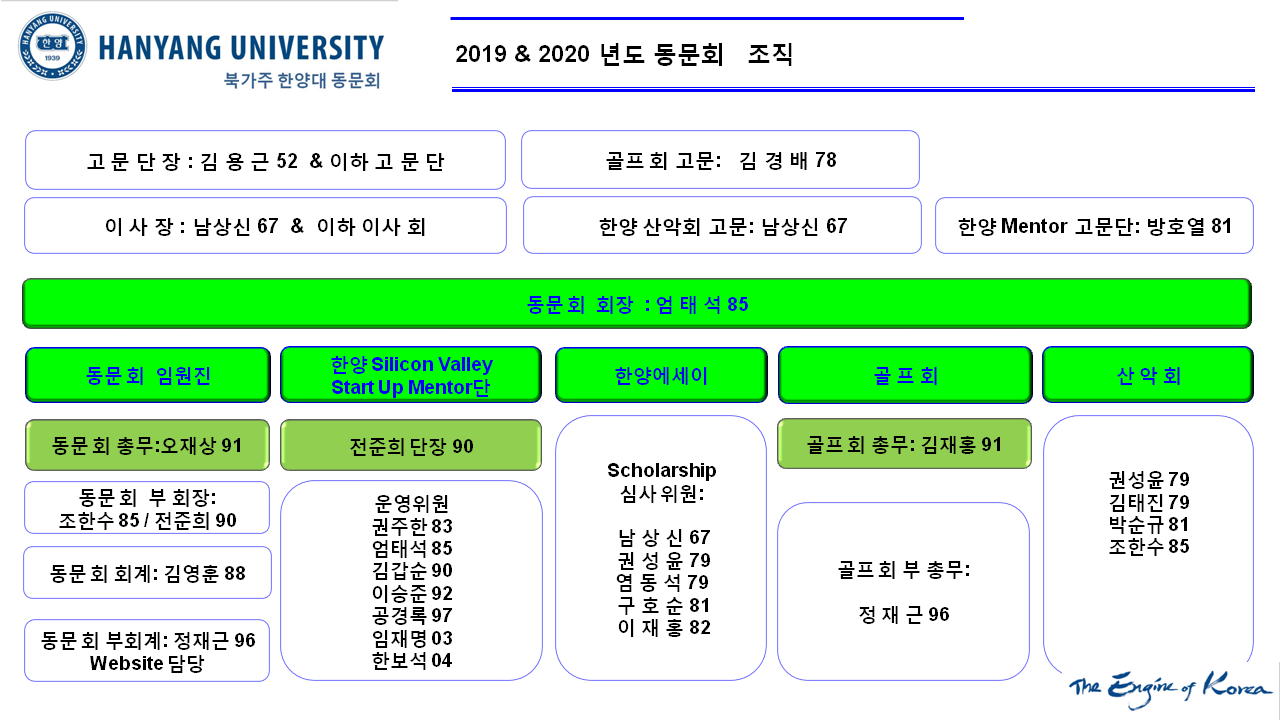
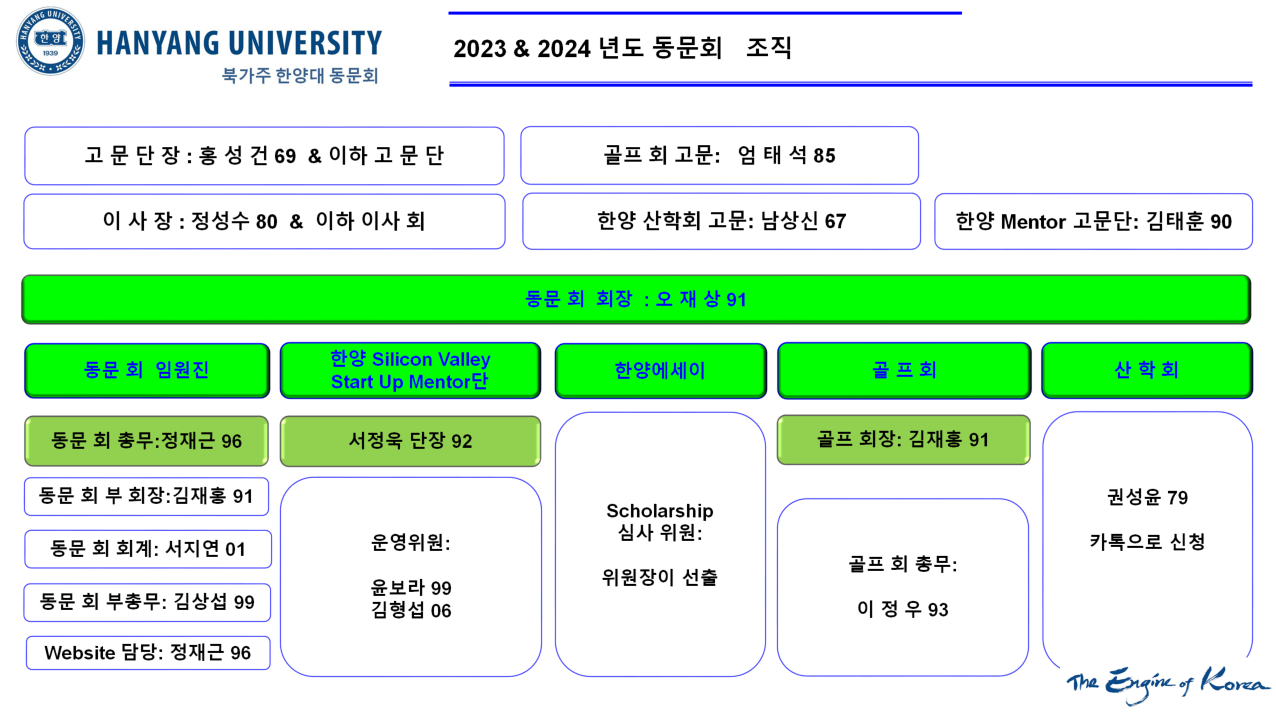
Updated to 2024-08-25 including ORGANIZATION slides

diff --git a/app/templates/app/index.html b/app/templates/app/index.html
@@ -6,54 +6,51 @@
 </head>
 <span style="z-index:10;position:relative;float:none;margin-top:0px;*margin-top:0px">
     {% load staticfiles %}
-    <img src="{% static 'app/images/thanks_giving.png' %}"
+    <img src="{% static 'app/images/mentor_2024.png' %}"
          style="margin-top: 5px; margin-bottom: 10px; margin-left: 0px; margin-right: 10px; border-width:1px;padding:3px;"
-         alt="Picture" width="347" height="182" class="galleryImageBorder">
+         alt="Picture" width="869" height="354" class="galleryImageBorder">
 </span>
 <div class="paragraph" style="display:block;">
     <font size="3">
-        <strong>북가주 한양대 동문회 이사/고문님께,</strong><br><br>
-        안녕하세요?<br><br>
-        11월 20일(금) 7:30 pm ~9:00 pm까지 Zoom 온라인으로 이사회가 진행되었으며 논의 및 결정된 사항은 아래와 같습니다.<br><br>
-        ---------- 아   래--------------<br>
-        참석자 (16명, 존칭 생략): 김용근, 남상신, 조장호, 이  완, 권성윤, 염동석, 방호열, 이재홍,<br>
-                                             조한수, 엄태석, 김영훈, 김갑순, 오재상,김재홍, 윤보라, 정재근<br><br>
+        <strong>사랑하는 북가주 한양대 동문 가족 여려분,</strong><br><br>
+        안녕하세요. 저희 북가주 한양대 홈페이지를 방문해 주셔서 감사합니다. 저희 북가주 한양대 동문 모임은 70년대 후반 <br>
+        (고) 김용근 (기계52) 단장님께서 시작하셔서 지금까지 북가주에 살고 있는 한양 동문간의 우애를 다지고 모교를 사랑하기 <br>
+        위한 모임입니다. 저희 동문 모임에는 80-90년대 은행권 단말기인 텔레비디오 CEO로 유명하신 황규빈 (원공58) 동문님이 <br>
+        200만 달러를 모교 발전을 위해 기부하시는 등 훌륭하신 선배님들이 많이 계십니다. <br><br>
 
-        <p>1. 동문회장 / 이사장 선출</p>
-        <ul>
-            <li>동문회장 선출</li>
-            <li>엄태석(85, 재료) 동문회장의 1년(2021년 말) 임기연장을 14명의 찬성으로 통과. (현 동문회 임원들은 유임)</li>
-            <li>이사장 선출<br>
-            16명 전원의 찬성으로 정성수(80, 산공) 동문을 이사장으로 선출 </li>
-        </ul>
+        저희 모임은 실리콘 벨리에서 활동하고 있는 선배와 모교에서 창업이나 미국 현지로 사업이나 취업을 원하는 재학생들을 <br>
+        연결하는 멘토단 활동을 활발하게 하고 있어 타 대학의 모범사례로 회자되고 있습니다. 그래서 매 년 한 번씩 총장님께서 <br>
+        직접 오셔서 위촉장을 수여하시며 이 모임을 장려하고 축하해 주시고 있습니다. 이 멘토 모임은 단순히 후배들을 돕는 것을 <br>
+        넘어 동문간에 교류하면서 협력하고 정보를 교환하면서 서로 간에 네트워크를 넓히며 새로운 사업 아이템을 구상하고 <br>
+        교류를 확대하고 있습니다.<br><br>
 
-        <p>2. 재정보고</p>
-        <ul>
-            <li>동문회 (김영훈 회계)<br>
-                수입: $10,149 = (2019년 이월금액 $9669 + 도네이션 $480)<br>
-                지출: $910 =(멘토단 모임 & 전준희 부회장 환송)<br>
-                잔고: $9239</li>
+        동문 친목 도모를 위해서, 이 밖에도 춘계 살구따기 행사와 추계 감따기 행사를 하면서 동문 뿐만 아니라 동문 가족간에도 <br>
+        친목을 도모하고 있습니다. 또한 골프를 사랑하는 동문을 위하여 봄과 가을에 정기 골프대회를 열어 시상을 하고 동문간에  <br>
+        우애를 다지고 있습니다. 가장 큰 행사인 매년 송년모임을 통해서 동문이 함께 모여 타지에서 힘들었던 삶을 서로 격려하며 <br>
+        한 해를 정리하고 모교에 대한 감사와 사랑의 실천이라는 건학이념을 되새기며 한 해를 마무리 하고 있습니다.<br><br>
 
-            <li>골프회 (김재홍 총무)<br>
-                잔고: $2842</li>
-        </ul>
+        이런 동문 모임을 유지하기 위해 일 년에 두 차례 정기 이사모임을 가지며 향후에 동문회가 어떻게 추진되 가야하는 지 <br>
+        토의하고 서로 격려하고 있습니다. 고문단 선배님들이 정신적 물질적으로 후배들을 격려해 주신 덕분에 동문회가 지금까지 <br>
+        잘 이어가고 있습니다. 지난 수년 모이기 어려워 힘들었던 펜데믹 기간 중에도 이 전통을 이어 오며 동문회를 발전해 <br>
+        가고 있습니다. <br><br>
 
-        <p>3. 멘토단 활동 보고 (김갑순 멘토단장)</p>
-        <ul>
-            <li>제4기 신입 멘토 위촉: 36명</li>
-            <li>2020년 정규 수업 과정으로 멘토단 강의</li>
-            <li>Start up talk concert 등</li>
-            <li>실리콘밸리를 넘어 전미주 동문들이 멘토로 참여할 수 있는 글로벌 멘토단을 지향 (조장호 고문)</li>
-        </ul>
+        이렇게 귀한 북가주 한양 모임이 명맥을 유지하기 까지 많은 동문들의 보이지 않는 수고가 많이 있었습니다. 그 중에서 <br>
+        김용근 단장님 이후, 동문회장으로 섬겨 주신 동문을 나열하면 다음과 같습니다. <br><br>
 
-        이번주는 추수감사절 연휴입니다.<br>
-        감사의 의미가 어느 해보다 더 큰 한 해가 아닌가 생각합니다.<br><br>
+        <li>조장호(72전기)</li>
+        <li>권성윤(79금속)</li>
+        <li>염동석(79전자)</li>
+        <li>방호열(81전자)</li>
+        <li>엄태석(85재료)</li>
+        <br>
 
-        이사님과 고문님 가정에 행복과 건강이 넘쳐 나시기를 기원합니다.<br>
-        감사합니다.<br><br>
 
-         이사장 : 남상신(64.산공) 415-866-8798<br>
-         회   장 : 엄태석(85.재료) 408-318-1626<br>
+        모쪼록 북가주 동문 모임을 관심가져 주시면서 다시 한 번 감사드리고, 혹시 아직 가입하지 않으셨다면 JOIN 탭에 가셔서 <br>
+        등록해 주시기 부탁드립니다. 타지에서 동문들과 사랑을 나누며 보다 풍성한 삶을 함께 만들었으면 좋겠습니다. <br>
+        읽어주셔서 대단히 감사드립니다. 감사합니다. <br><br>
+
+        북가주 동문회 드림 <br>
+
     </font>
 </div>
 

diff --git a/app/templates/app/g_videos.html b/app/templates/app/g_videos.html
@@ -10,8 +10,25 @@
 <head>
     <title> 북가주 한양 대학교 동문회 - Video Lib </title>
 </head>
-
-<iframe width="855" height="481" src="https://www.youtube.com/embed/LBcnQ_VD-84" frameborder="0"
+<iframe width="855" height="481" src="https://www.youtube.com/embed/D3NTPL0G1gQ" frameborder="0"
+        allow="accelerometer; autoplay; encrypted-media; gyroscope; picture-in-picture" allowfullscreen>
+</iframe>
+<br><br><br>
+<a href="https://www.youtube.com/watch?v=Oy59yYu7t0w"> [한양대학교 캠퍼스타운] 2023 글로벌 스타트업 트렌드(8/28/2023) </a>
+<br><br><br>
+<iframe width="855" height="481" src="https://www.youtube.com/embed/gmAn44IGwrY" frameborder="0"
+        allow="accelerometer; autoplay; encrypted-media; gyroscope; picture-in-picture" allowfullscreen>
+</iframe>
+<br><br><br>
+<iframe width="855" height="481" src="https://www.youtube.com/embed/pexHLKgj-lQ" frameborder="0"
+        allow="accelerometer; autoplay; encrypted-media; gyroscope; picture-in-picture" allowfullscreen>
+</iframe>
+<br><br><br>
+<iframe width="855" height="481" src="https://www.youtube.com/embed/-7GmnHwkT24" frameborder="0"
+        allow="accelerometer; autoplay; encrypted-media; gyroscope; picture-in-picture" allowfullscreen>
+</iframe>
+<br><br><br>
+<iframe width="855" height="481" src="https://www.youtube.com/embed/I7gvrq_vmwc" frameborder="0"
         allow="accelerometer; autoplay; encrypted-media; gyroscope; picture-in-picture" allowfullscreen>
 </iframe>
 <br><br><br>
@@ -22,6 +39,10 @@
 <iframe width="855" height="481" src="https://www.youtube.com/embed/hL5B-QclQq8" frameborder="0"
         allow="accelerometer; autoplay; encrypted-media; gyroscope; picture-in-picture" allowfullscreen>
 </iframe>
+<iframe width="855" height="481" src="https://www.youtube.com/embed/hG8K3gl-snw" frameborder="0"
+        allow="accelerometer; autoplay; encrypted-media; gyroscope; picture-in-picture" allowfullscreen>
+</iframe>
+<br><br><br>
 <br><br><br>
 <iframe width="855" height="481" src="https://www.youtube.com/embed/li0dXJLve2g" frameborder="0"
         allow="accelerometer; autoplay; encrypted-media; gyroscope; picture-in-picture" allowfullscreen>

diff --git a/app/templates/app/layout.html b/app/templates/app/layout.html
@@ -34,7 +34,8 @@
                             <tbody>
                             <tr>
                                 <td class="phone-number">
-                                        <span class="wsite-text">Email hyubayarea at gmail dot com
+                                        <span class="wsite-text">
+                                            <a href="mailto:sfbayhanyang@gmail.com">sfbayhanyang@gmail.com</a>
                                         </span>
                                 </td>
                                 <td class="social"></td>

diff --git a/app/templates/app/contact.html b/app/templates/app/contact.html
@@ -14,7 +14,7 @@
     </strong>
 </div>
 <div>
-    <form enctype="multipart/form-data" action="https://formspree.io/hyubayarea@googlegroups.com"
+    <form enctype="multipart/form-data" action="https://formspree.io/f/jjg0412@gmail.com"
           method="POST" id="form-messages">
         <div id="messages-form-parent" class="wsite-form-container" style="margin-top:10px;">
             <ul class="formlist" id="messages-form-list">

diff --git a/app/models.py b/app/models.py
@@ -1,3 +1,4 @@
+# -*- coding: utf-8 -*-
 """
 Definition of models.
 """
@@ -15,6 +16,8 @@ class Post(models.Model):
 
     def __str__(self):
         return self.title
+    def __unicode__(self):
+        return u'%s'%self.title
 
 
 class Comment(models.Model):

diff --git a/app/views.py b/app/views.py
@@ -1,3 +1,4 @@
+# -*- coding: utf-8 -*-
 """
 Definition of views.
 """
